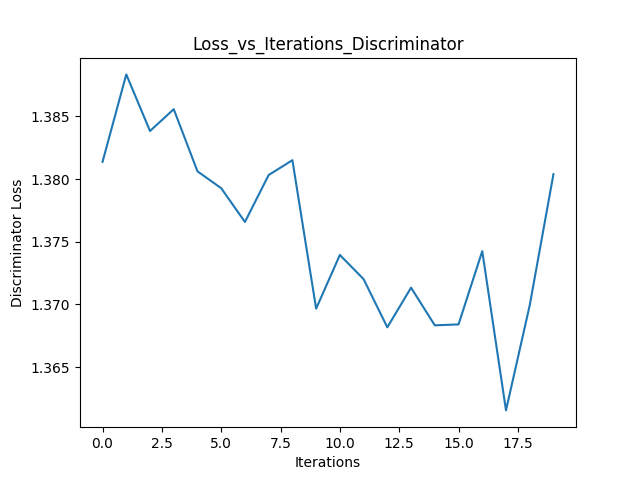
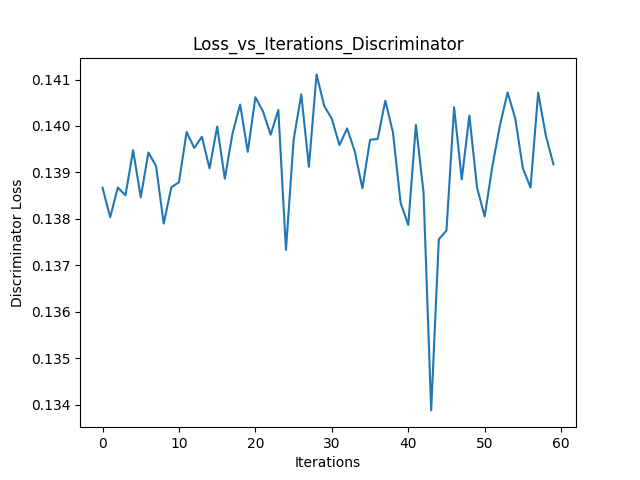
minor

diff --git a/gan_train_improved.py b/gan_train_improved.py
@@ -457,9 +457,9 @@ if torch.cuda.is_available():
 print('Using device: %s'%device)
 
 #### final params
-num_training= 2100
-num_validation = 200
-num_test = 397
+#num_training= 2100
+#num_validation = 200
+#num_test = 397
 
 num_epochs = 3
 learning_rate = 1e-4
@@ -468,9 +468,9 @@ reg = 0.001
 batch_size = 1
 
 # ### dev params
-# num_training= 20
-# num_validation = 7
-# num_test = 7
+num_training= 20
+num_validation = 7
+num_test = 7
 
 mask = list(range(num_training))
 train_dataset = torch.utils.data.Subset(sitd_dataset, mask)
